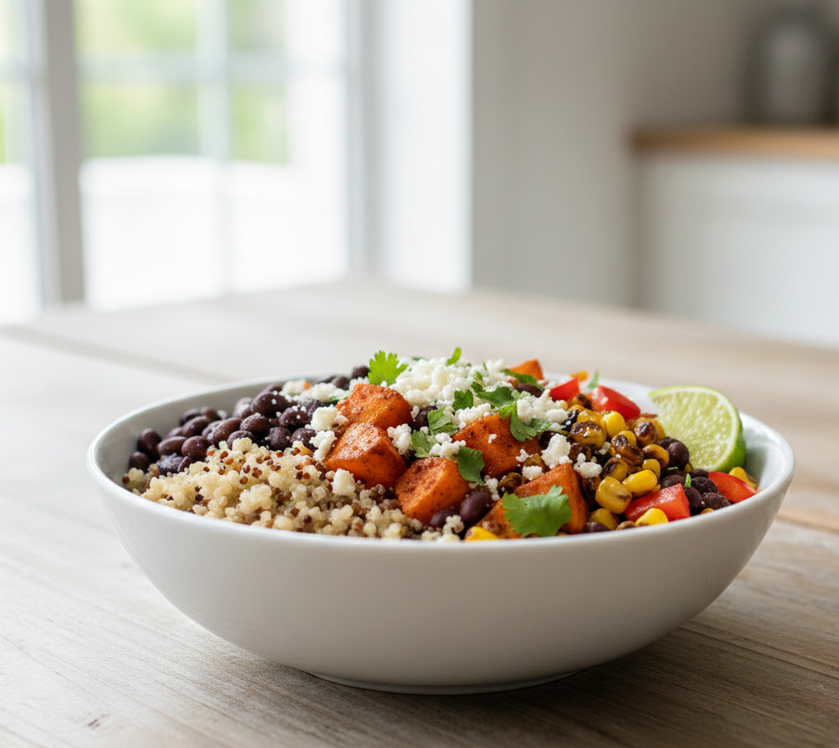
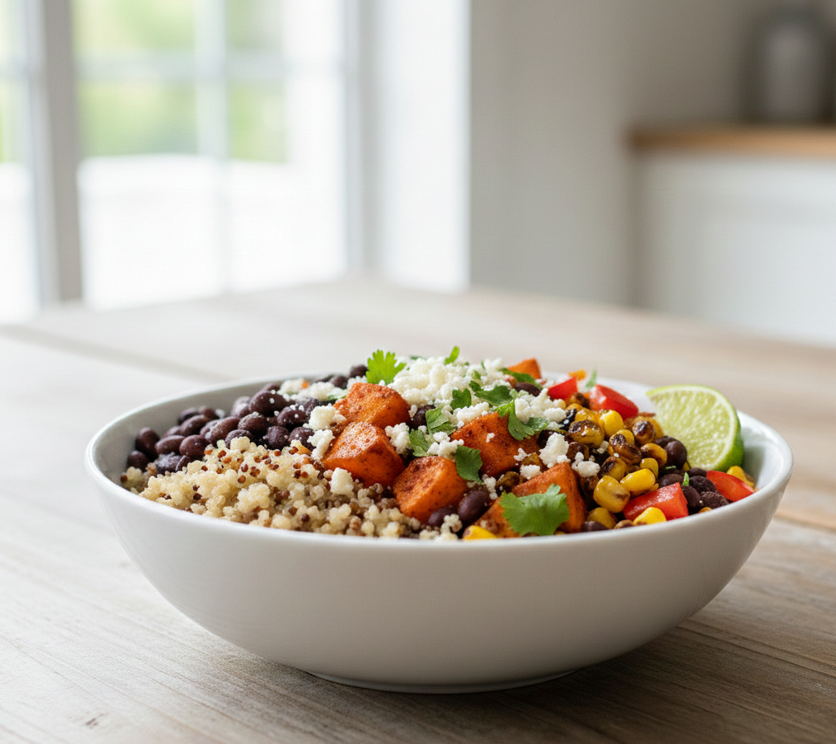
updated hero image to remove watermark

diff --git a/index.html b/index.html
@@ -87,42 +87,36 @@
             </div>
         </section>
         <section id="services" class="container">
-            <h1 class="display-6">Services</h1>
+            <h1 class="display-6 text-center">Services</h1>
             <div class="row">
-                <div class="card text-bg-dark">
+                <div class="card text-bg-light justify-center">
                     <img src="assets/images/vegetarian.png" class="card-img" alt="...">
                     <div class="card-img-overlay">
-                        <h5 class="card-title">Card title</h5>
-                        <p class="card-text">This is a wider card with supporting text below as a natural lead-in to
-                            additional content. This content is a little bit longer.</p>
-                        <p class="card-text"><small>Last updated 3 mins ago</small></p>
+                        <h5 class="card-title">VEGETARIAN-BASED</h5>
+                        <p class="card-text">Delicious & balanced plant-base dmeals delivered to you weekly.</p>
                     </div>
                 </div>
-                <div class="card text-bg-dark">
+                <div class="card text-bg-light">
                     <img src="assets/images/carbs.png" class="card-img" alt="...">
                     <div class="card-img-overlay">
-                        <h5 class="card-title">Card title</h5>
-                        <p class="card-text">This is a wider card with supporting text below as a natural lead-in to
-                            additional content. This content is a little bit longer.</p>
-                        <p class="card-text"><small>Last updated 3 mins ago</small></p>
+                        <h5 class="card-title">CARB-FOCUSED</h5>
+                        <p class="card-text">Sustaining energy & comfort with wholesome carbs delivered to you weekly.</p>
                     </div>
                 </div>
-                <div class="card text-bg-dark">
+                <div class="card text-bg-light">
                     <img src="assets/images/protein.png" class="card-img" alt="...">
                     <div class="card-img-overlay">
-                        <h5 class="card-title">Card title</h5>
+                        <h5 class="card-title">PROTEIN-BASED</h5>
                         <p class="card-text">This is a wider card with supporting text below as a natural lead-in to
                             additional content. This content is a little bit longer.</p>
-                        <p class="card-text"><small>Last updated 3 mins ago</small></p>
                     </div>
                 </div>
-                <div class="card text-bg-dark">
+                <div class="card text-bg-light">
                     <img src="assets/images/vegan.png" class="card-img" alt="...">
                     <div class="card-img-overlay">
-                        <h5 class="card-title">Card title</h5>
+                        <h5 class="card-title">VEGAN-BASED</h5>
                         <p class="card-text">This is a wider card with supporting text below as a natural lead-in to
                             additional content. This content is a little bit longer.</p>
-                        <p class="card-text"><small>Last updated 3 mins ago</small></p>
                     </div>
                 </div>
             </div>

diff --git a/assets/css/styles.css b/assets/css/styles.css
@@ -59,7 +59,8 @@ main {
     background-position: center;
     background-repeat: no-repeat;
     aspect-ratio: 16 / 9;
-    min-height: 350px;
+    min-height: 200px;
+    max-height: 700px;
     width: 100%;
 }
 
@@ -112,15 +113,26 @@ main {
 }
 
 /* Services */
-.card-img-overlay {
-    background-color: rgba(255, 255, 255, 0.3); /* semi-transparent white */
-    padding: 30px;
-    border-radius: 10px;
-    max-width: 500px;
+.card {
+    max-width: 300px;
+    max-height: 300px;
+    padding: 0;
+    margin: 5px 5px;
+    justify-content: center !important;
 }
 
-.card {
-    max-width: 500px;
+.card-img-overlay {
+    background-color: rgba(255, 255, 255, 0.3); /* semi-transparent white */
+    max-width: 400px;
+    max-height: 400px;
+}
+
+.card-img {
+    max-width: 100%;
+    padding: 0;
+    max-height: 250px;
+    object-fit: cover;
+    
 }
 
 
